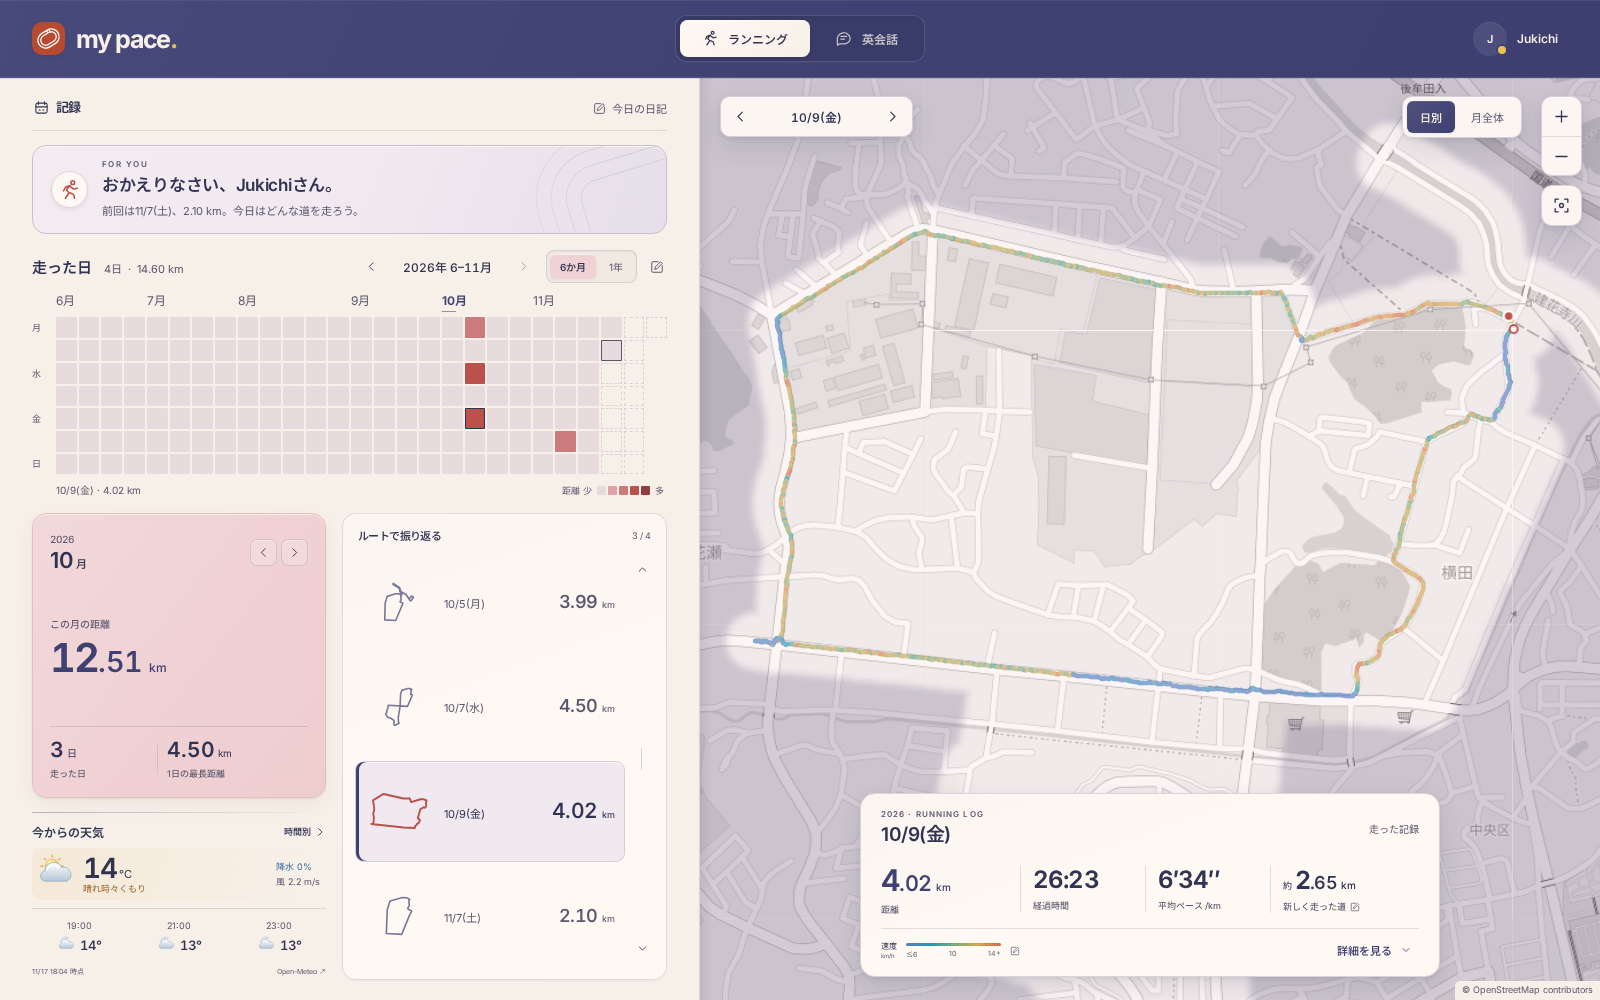
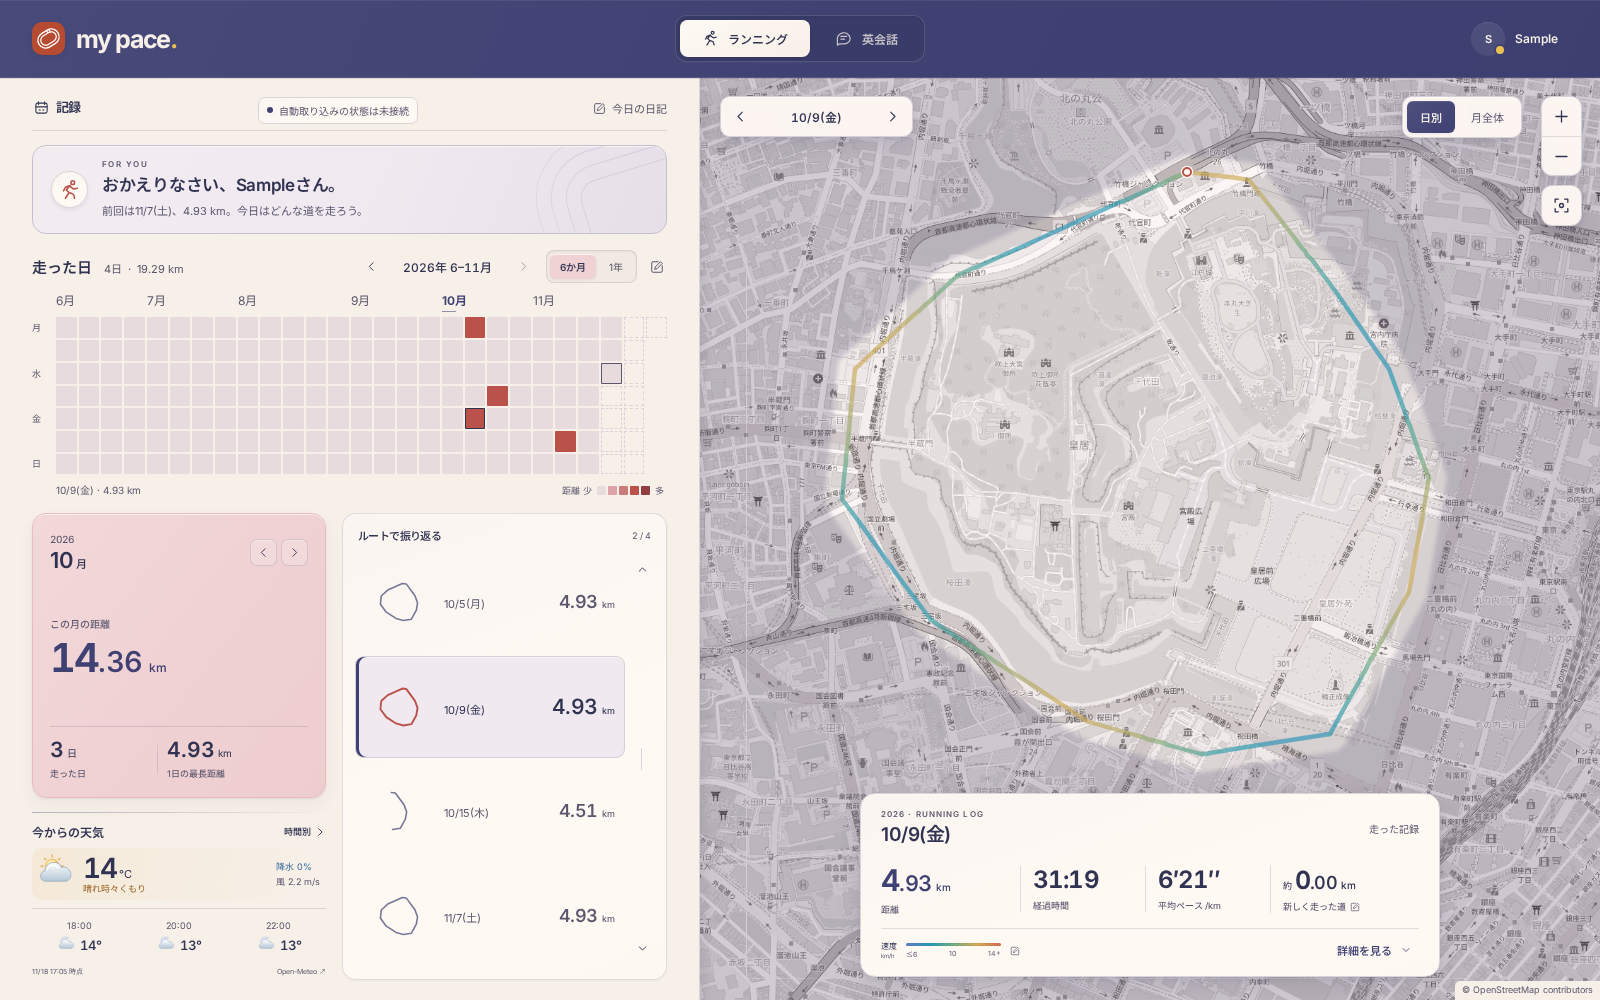
docs: prepare public development notes and synthetic gallery

diff --git a/README.md b/README.md
@@ -1,105 +1,89 @@
 # MyPace
 
-走った道を眺めながら、自分の積み重ねを楽しむための個人用アプリ。
-ランニングを中心に、使いながら少しずつ育てています。
+ランニングを中心に、自分の取り組みを記録する個人用アプリ。自分のGoogleアカウント・Drive・Vercelにつないで使う構成です。
 
-[ローカルで動かす](#ローカルで動かす) · [Drive接続](processing/running/CONNECT.md) · [自動取り込み](processing/running/gas/PRODUCTION.md) · [検証結果](processing/running/gas/RESULTS.md)
+作者が自分で使うために作っている、開発途中の趣味プロジェクトです。必要に応じて好きに追加・変更していきます。機能の互換性、更新頻度、サポートは保証しません。
 
-![MyPaceのランニング画面。左に継続カレンダーとルート一覧、右に速度で色分けされた地図](media/running-day.png)
-
-## 走った記録を、見返したくなる形に
-
-- **ルートから振り返る。** 経路の小さな概形と距離を一覧にし、選ぶと地図・日別の記録が連動します。月全体の経路も重ねられます。
-- **積み重ねが見える。** カレンダーの四角は走った距離で色づき、月間距離・走った日数・最長距離をまとめて表示します。
-- **走るほど、地図が開く。** 走った道と、その道で囲まれた範囲を明るく表示。「新しく走った道」の推定距離も残します。
-- **ペースを色で読む。** 経路は速度に応じた滑らかな色のグラデーション。RUNNING LOGを開くと、ペース推移と区間の詳細を確認できます。
-- **時間帯に合わせた配色。** 朝・昼・晩のテーマが自動で切り替わり、好みのテーマに固定することもできます。
-
-PCではページをスクロールせずに使えるよう、画面の高さに応じて余白や表示件数を調整します。細かな情報は必要なときに開き、スマートフォンでは縦の画面に合わせて並べます。
+![ランニング画面：継続カレンダー、ルート一覧、速度で色分けした地図](media/running-day.png)
 
 <details>
-<summary>夜のテーマ・月全体の表示</summary>
+<summary>夜のテーマ・スマートフォン</summary>
 
-![夜のテーマで、その月に走った経路をまとめて表示](media/running-night.png)
+![夜のテーマと月全体の経路](media/running-night.png)
+
+<img src="media/running-mobile.png" alt="スマートフォン表示" width="390">
 
 </details>
 
-<details>
-<summary>スマートフォンの表示</summary>
+画像の記録・経路・天気・表示名は説明用の架空データです。実際の走行履歴ではなく、経路案内にも使えません。
 
-<img src="media/running-mobile.png" alt="朝のテーマのスマートフォン表示" width="390">
+## 現状
 
-</details>
+- ランニング：地図、速度別の経路表示、継続カレンダー、月間集計、ペース分析。
+- 探索：走った道と囲まれた範囲を明るく表示。その日新しく走った道の距離も推定。
+- Google連携：CSVの差分処理・自動取り込み、本人認証付きの閲覧、処理状況の表示。
+- 日記・設定：ブラウザ内に保存。Drive保存・端末間同期は未実装。
+- 英会話・ホーム：入口のみ。内容はこれから。
 
-画像は処理済みの実記録をローカルで読み込んだ画面です。天気は表示確認用のサンプルです。元のCSV・GPSデータは、このリポジトリに含めていません。
+## ローカル起動
 
-## データの流れ
-
-大きなCSVを画面を開くたびに読み込まず、Google Apps Scriptで軽い表示用JSONに変換します。WebアプリはGoogleで本人認証した後、その完成済みデータを読み込みます。
-
-```text
-Google Drive: my-pace/
-└── running/
-    ├── raw/       CSV原本。読み取りのみ
-    ├── derived/   地図・集計・探索範囲などの表示用JSON
-    └── system/    再開用の処理状態とキャッシュ
-
-raw → Apps Scriptで差分処理 → derived/index.json → 本人認証 → MyPace
-```
-
-変更の検出にはDriveのメタデータを使い、未変更のCSV本文は再取得しません。処理は中断・再開でき、必要な出力がそろってから目次の `index.json` を更新します。PCを常時起動する必要はなく、Vercel Hobbyと個人Googleアカウントの無料枠での運用を前提にしています。
-
-Google実環境では、約102MBのCSV3件、差分更新12段階、24時間のアイドル監視、新しいCSV1件の取り込みを確認しました。本人認証付きでの本番画面への読み込みも確認済みです。詳しい条件・計測値は [検証結果](processing/running/gas/RESULTS.md) に記録しています。
-
-## 現在できること・これから
-
-| 機能 | 状態 |
-| --- | --- |
-| 地図・カレンダー・集計・探索表示 | 実装済み |
-| Googleログイン・Driveの完成済みデータの表示 | 本番画面で確認済み |
-| CSVの継続取り込み | 本番用準備は実機で完了。残りの変換・継続運用は開始操作後に確認 |
-| 取り込み状態 | 反映件数・上限回復待ち・再開予定・エラーを表示。更新版Apps Scriptとの接続はこれから |
-| 日記・呼び名・テーマ | 利用中のブラウザーに保存 |
-| 日記・設定のDrive保存、端末間の自動同期 | 未実装 |
-| ホーム・英会話 | カテゴリの入口のみ。内容は準備中 |
-
-## ローカルで動かす
-
-Node.js 20以上を使用します。
+Node.js 20以上。個人の記録・認証設定は同梱していません。
 
 ```bash
 npm ci
 npm start
 ```
 
-`http://127.0.0.1:4173/#records` を開きます。個人の記録は同梱していないため、初期状態ではスクリーンショットの記録は表示されません。Drive接続には [.env.example](.env.example) と [接続手順](processing/running/CONNECT.md) を使って本人のGoogle認証を設定します。
+`http://127.0.0.1:4173` を開きます。ローカルでもDriveを読む場合は `.env.example` を `.env.local` にコピーして設定します。
 
-手元の記録を読む検証用モードは `http://127.0.0.1:4173/?source=local#records` です。読み込み先の `data/running.json` はGitから除外しています。
+## 接続・設定メモ
 
-```bash
-npm test
-npm run build:public
+1つのデプロイを1人で使います。Vercel Hobbyの個人・非商用利用とGoogleの無料枠を前提にしています。利用上限はありますが、PCの常時起動は不要です。[Hobbyの条件](https://vercel.com/docs/plans/hobby)
+
+**1. Drive：** 本人所有・非共有で、次のフォルダを用意します。設定に使うのは最上位の `my-pace` のIDです。
+
+```text
+my-pace/
+└── running/
+    ├── raw/       CSV原本
+    ├── derived/   表示用JSON
+    └── system/    処理状態・キャッシュ
 ```
 
-`build:public` は必ず空のランニングデータ `{"days":[]}` を生成します。Vercelでもこのコマンドを使います。ログイン後の個人データは、本人所有・非共有の許可したDriveフォルダから読み取り専用APIで取得します。未認証・別アカウントからは取得できません。
+**2. Vercel：** 自分のGitHubリポジトリを接続。Frameworkは **Other**、Build Commandは **`npm run build:public`**、Output Directoryは **`dist`**。`vercel.json` に設定済みです。デプロイ後の固定URLを次のOAuth設定に使います。[Git連携](https://vercel.com/docs/git)
 
-`npm run build` はローカル専用です。手元に記録があれば出力に含むため、その `dist/` を公開しないでください。
+**3. Google Cloud：** プロジェクトを作り、Google Drive APIを有効化。Google Auth PlatformでExternalを選び、Testingなら自分をテストユーザーに登録。Web用OAuthクライアントを作り、リダイレクトURIを `https://自分のドメイン/api/google-auth` にします。ローカル用は `http://127.0.0.1:4173/api/google-auth`。権限は `openid`・`email`・`drive.readonly` です。
 
-## 開発と運用の資料
+TestingではこのDrive権限の更新トークンは7日で失効します。継続利用する場合はIn productionへの変更を検討します。個人利用は審査免除の対象ですが、未確認アプリの警告が出る場合があります。[トークン期限](https://developers.google.com/identity/protocols/oauth2#expiration) / [個人利用](https://developers.google.com/identity/protocols/oauth2/production-readiness/brand-verification#personal-use)
 
-| 資料 | 内容 |
+**4. 環境変数：** VercelのSettings → Environment VariablesにProduction用として登録し、再デプロイします。
+
+| 変数 | 値 |
 | --- | --- |
-| [画面接続](processing/running/CONNECT.md) | Google認証・共通管理フォルダ・Vercelの設定と戻し方 |
-| [本番取り込み](processing/running/gas/PRODUCTION.md) | CSV取り込み元・出力先・初回処理・継続更新・ロールバック |
-| [データ処理](processing/running/README.md) | 表示用データの形式と生成処理 |
-| [Google実測結果](processing/running/gas/RESULTS.md) | 合格した検証と、その範囲・制約 |
+| `MYPACE_ORIGIN` | `https://自分のドメイン`（末尾 `/` なし） |
+| `GOOGLE_CLIENT_ID` | Web用OAuthクライアントID |
+| `GOOGLE_CLIENT_SECRET` | そのクライアントシークレット |
+| `MYPACE_SESSION_SECRET` | 自分で生成した32文字以上のランダムな秘密値 |
+| `MYPACE_ROOT_FOLDER_ID` | Driveの `my-pace` フォルダID |
 
-画面は `app.js`・`lib/`・`styles.css`、認証とDrive読み込みは `api/`・`server/`、CSVの変換は `processing/running/` に分けています。UIはJavaScript・CSS、地図はLeafletを使用しています。
+右上のアカウントからGoogleログインすると、自分の `running/derived/index.json` を読みます。[接続の詳細](processing/running/CONNECT.md)
 
-## リポジトリの保存範囲
+**5. 表示用データ：** 画面は完成済みのJSONを読みます。CSVは `time,latitude,longitude` 列とUTCのISO日時（末尾 `Z`）を持つ形式に対応。他のセンサー列は読み飛ばします。GPX・FITや任意のアプリのCSVにそのまま対応するものではありません。
 
-このリポジトリは非公開で運用します。コード・合成データを使うテスト・手順書・紹介画像を保存しています。`media/` の画像はREADME用で、アプリの公開ビルドには含めません。
+手動変換はローカルの `data/raw/` にCSVを置き、`npm run prepare:running -- --input data/raw` を実行します（Linux / WSL、`flock` が必要）。`data/running-display/objects/` 内のハッシュ名JSONをDriveの `derived` 直下へ置き、最後に `data/running-display/index.json` を同じ場所へ置きます。`objects` フォルダは作らず、同名ファイルの重複を避けます。自動取り込みの稼働中は、手動で出力を置き換えません。
 
-個人の記録を含む `data/`、作業中の `screenshots/`、個人的なメモの `docs/`、旧実装の `旧my-pace/`、環境変数・認証情報・CSV・GPS交換ファイルはGitから除外しています。
+**6. Apps Script：** 自動取り込みは約5分ごとに入力を確認し、変更されたCSVを処理します。`npm run prepare:gas-production` で生成した `Code.gs` と `appsscript.json` を自分のApps Scriptへ貼り付け、共通ルートIDを設定します。Webアプリとしてのデプロイは不要です。
 
-背景地図・地図画像：© [OpenStreetMap contributors](https://www.openstreetmap.org/copyright)。天気：[Open-Meteo](https://open-meteo.com/)。同梱するLeafletのライセンスは [こちら](assets/vendor/LICENSE.txt) です。
+**現版の初期準備は、検証手順で作った状態・キャッシュの引き継ぎを前提としています。新規環境へキットを貼るだけでは開始できず、その導入経路はまだ整理途中です。** [実装・設定手順](processing/running/gas/PRODUCTION.md) / [検証記録](processing/running/gas/RESULTS.md)
+
+Webアプリは読み取り専用、Apps Scriptは出力JSONの書き込み権限を使います。OAuth権限自体はDrive全体が対象ですが、コードで入力・出力先を制限しています。[Driveの権限](https://developers.google.com/workspace/drive/api/guides/api-specific-auth)
+
+## 開発メモ
+
+画面は `app.js`・`lib/`・CSS、認証と読み込みは `api/`・`server/`、CSV変換は `processing/running/`。確認用コマンドは `npm test` と `npm run build:public` です。
+
+`build:public` は空のランニングデータを生成し、本人の記録はログイン後に読み込みます。`npm run build` は手元の記録を含み得るローカル専用ビルドなので、公開には使いません。
+
+`data/`・`.env*`（`.env.example` を除く）・CSV・作業用スクリーンショット・個人的なメモ・旧実装はGit対象外です。設定済みApps Scriptキット、GPSを含む表示用JSON、シークレットもコミットしないでください。
+
+本体のライセンスは未設定です。背景地図：© [OpenStreetMap contributors](https://www.openstreetmap.org/copyright)。天気：[Open-Meteo](https://open-meteo.com/)。同梱するLeafletのライセンスは [こちら](assets/vendor/LICENSE.txt)。

diff --git a/processing/running/gas/HANDOFF.md b/processing/running/gas/HANDOFF.md
@@ -38,8 +38,8 @@
 GitHubにはコードの原本・テスト・手順だけを置きます。**貼り付け用の設定済みコードは、作業中のPCの次の場所にあります。**
 
 ```text
-/home/jukichi/workspace/my-pace/data/running-gas-probe/Code.gs
-/home/jukichi/workspace/my-pace/data/running-gas-probe/appsscript.json
+data/running-gas-probe/Code.gs
+data/running-gas-probe/appsscript.json
 ```
 
 GitHubにある `probe-host.gs` は部品なので、単体では実行できません。GitHubから取得した直後の別環境にも、私有設定や元CSVはありません。上記の用意済みファイルを使えば、利用者がDrive IDを調べて手入力する必要はありません。

diff --git a/processing/running/gas/INCREMENTAL.md b/processing/running/gas/INCREMENTAL.md
@@ -60,8 +60,8 @@ MyPace 差分更新検証 …/
 今回使うファイルは、作業中のPCの次の場所にあります。
 
 ```text
-/home/jukichi/workspace/my-pace/data/running-gas-incremental/Code.gs
-/home/jukichi/workspace/my-pace/data/running-gas-incremental/appsscript.json
+data/running-gas-incremental/Code.gs
+data/running-gas-incremental/appsscript.json
 ```
 
 GitHub上の [incremental-host.gs](incremental-host.gs) は部品で、単体では動きません。設定済み `Code.gs` を使ってください。Driveの個別IDや照合値を含むため、設定済みキットはGitHubにもチャットにも貼りません。照合用データ・キャッシュには実GPSが含まれます。
